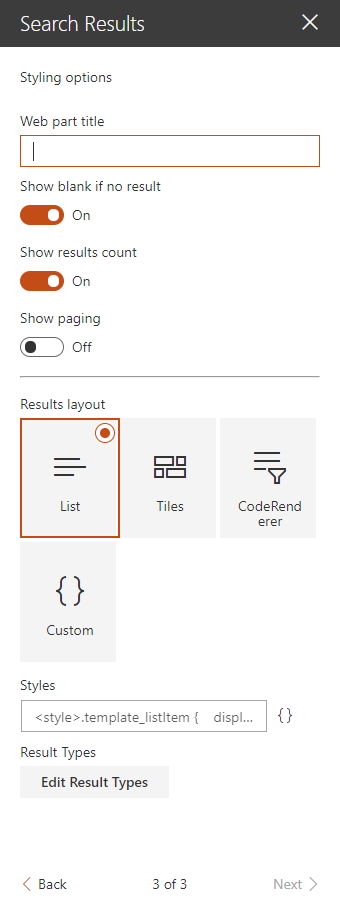
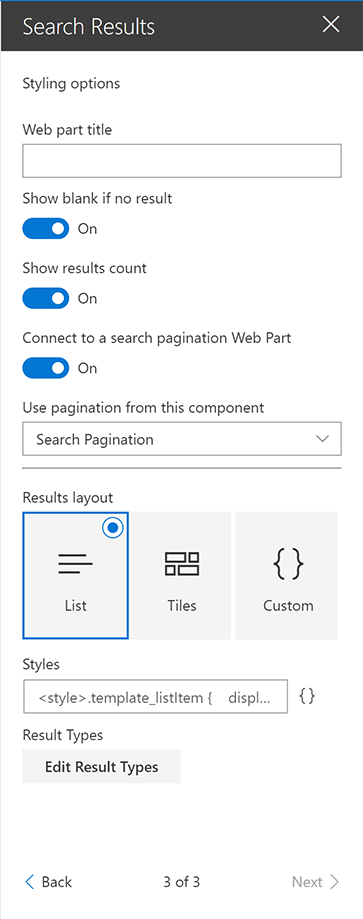
Readme: Updated versions and added information about Search Pagination Web Part

diff --git a/solutions/ModernSearch/react-search-refiners/README.md b/solutions/ModernSearch/react-search-refiners/README.md
@@ -1,6 +1,6 @@
 # SharePoint Framework modern search Web Parts
 
-![Version](https://img.shields.io/badge/version-3.0.0-green.svg)
+![Version](https://img.shields.io/badge/version-3.0.3-green.svg)
 
 ## Summary
 This solution allows you to build user friendly SharePoint search experiences using SPFx in the modern interface. The main features include:
@@ -12,7 +12,7 @@ This solution allows you to build user friendly SharePoint search experiences us
 - Customizable refiners supporting multilingual values for taxonomy based filters.
 - Sortable results (unique field).
 - Refiners Web Part.
-- Results paging.
+- Pagination Web Part.
 - SharePoint best bets support.
 - Search query enhancement with NLP tools (like Microsoft LUIS).
 
@@ -32,8 +32,9 @@ Component | Description
 ----- | ----- 
 Search Box Web Part | Allows users to enter free text/KQL search queries connected to a search results Web Part.
 Search Results Web Part | Performs static or dynamic search query with customizable parameters sorting and templating. An associated [blog post](http://thecollaborationcorner.com/2017/10/16/build-dynamic-sharepoint-search-experiences-with-refiners-and-paging-with-spfx-office-ui-fabric-and-pnp-js-library/) is available to give you more details about this Web Part implementation.
-Search Refiners | Allows users to configure refiners from a search results Web Part.
-Search Navigation | Allows users to configure refiners from a search results
+Search Refiners | Allows users to configure refiners for a search results Web Part.
+Search Pagination | Allows users to configure pagination for a search results Web Part.
+Search Navigation | Allows users to configure navigation for a search results Web Part
 
 **Back-end service(s)**
 
@@ -115,7 +116,7 @@ Query template | The search query template in KQL format. You can use search var
 Result Source Identifier | The GUID of a SharePoint result source.
 Initial sort order | The initial search results sort order. You can use mutliple properties here.
 Sortable fields | The search managed properties to use for sorting. Make sure these are sortable. With SharePoint Online, you have to reuse the default ones to do so (RefinableStringXX etc.). The order is the same as they will appear in the sort panel. You can also provide your own custom labels using the following format RefinableString01:"You custom filter label",RefinableString02:"You custom filter label",... If no sortable fields are provided, the 'Sort' button will not be visible.
-Connect to a search refiners Web Part | If enable, select the search refiners Web Part to use on the current page to get selected filters. It is a 2 ways connection so don't forget to connect the targeted search refiners to the sarch results Web Part as well. 
+Connect to a search refiners Web Part | If enable, select the search refiners Web Part to use on the current page to get selected filters. It is a 2 ways connection so don't forget to connect the targeted search refiners to the search results Web Part as well. 
 Enable Query Rules | Enable the query rules if applies. Turn this options  'on' to display your SharePoint Promoted results (links only).
 Selected properties | The search managed properties to retrieve. You can use these properties then in your Handlebar template with the syntax (`item.property_name`).
 Number of items to retrieve per page | Quite explicit. The paging behavior is done directly by the search API (See the *SearchDataProvider.ts* file), not by the code on post-render.
@@ -127,7 +128,7 @@ Setting | Description
 Web Part Title | Shows a title for this Web Part. Set blank if you don't want a title.
 Show blank if no result | Shows nothing if there is no result
 Show result count | Shows the result count and entered keywords  
-Show paging | Indicates whether or not the component should show the paging control at the bottom.
+Connect to a search pagination Web Part	 | If enable, select the search pagination Web Part to use on the current page to get selected page. It is a 2 ways connection so don't forget to connect the targeted search pagination to the search results Web Part as well. 
 Result Layouts options | Choose the template to use to display search results. Some layouts are defined by default (List and Tiles) but you can create your own either by clinkg on the **"Custom"** tile, or **"Edit template"** from an existing chosen template. In custom mode, you can set an external template. It has to be in the same SharePoint tenant. Behind the scenes, the Office UI Fabric core CSS components are used in a isolated way. Custom code templates will also automaticly be displayed here upon registration.
 Result types | Allows you to set a custom template at item level according to a specific condition (ex: FileType equals 'pdf').
 Handlebars Helpers | Load [handlebar helpers](https://github.com/helpers/handlebars-helpers) to use in your template. Disable this option will make Web Part loading faster if you don't need them.
@@ -285,6 +286,16 @@ Web Part Title | Shows a title for this Web Part. Set blank if you don't want a 
 Show blank if no result | Shows nothing if there is no filter
 Filters layout | Choose the template to use to display filters results.
 
+### Search Pagination
+
+<p align="center"><img width="300px" src="./images/search-pagination-property-pane.png"/><p>
+
+#### Pagination Options
+
+Setting | Description 
+-------|----
+Connect to search results Web Part | The search results Web Part to use on the current page to get page.
+
 ### Search Navigation Webpart
 This addition is a pivot-navigation link list that may be used to emulate the navigation in the out-of-the-box search center. You can use this webpart on several different pages and set up a searchbox and refiners webpart to handle different types of result. The webpart will automaticly detect if it is on the right page from the set of navigation nodes, and display it in the preferred color. 
 <img src="./images/NavNodesMain.gif">
@@ -335,6 +346,9 @@ Version|Date|Comments
 2.5.0.1 | Feb 11, 2019 | Downgrade @microsoft/sp-office-ui-fabric-core to v1.6.0 to fix theming
 2.5.1.0 | Mar 05, 2019 | Added Search Navigation webpart to the package.
 3.0.0.0 | Mar 10, 2019 | Created a dedicated refiners Web Part to connect with a search results like to the classic SharePoint search experience.
+3.0.1.0 | Mar 14, 2019 | Created a dedicated pagination Web Part to connect with a search results like to the classic SharePoint search experience. Improved Refienrs WP CSS.
+3.0.2.0 | Mar 14, 2019 | Fixed regressions with the paging experience
+3.0.3.0 | Mar 16, 2019 | Fixed display of custom renderers, in edit mode
 
 ## Important notice on upgrading the solution from pre v2.2.0.0
 **Due to code restucturing we have hit an edge case which impacts upgrades from previous versions. To solve the issue go to `https://<tenant>.sharepoint.com/sites/<appcatalog>/Lists/ComponentManifests` and remove the entries for SearchBox and Search Results, and then upload the .sppkg for the new release.**

diff --git a/solutions/ModernSearch/react-search-refiners-renderer/README.md b/solutions/ModernSearch/react-search-refiners-renderer/README.md
@@ -25,8 +25,9 @@ react-search-refiners-renderers | Tarald Gåsbakk - [@taraldga](http://www.twitt
 ## Version history
 Version|Date|Comments
 -------|----|--------
-1.0 | Jan 06, 2019 | Initial release
-1.0 | Mar 05, 2019 | Added Persona renderer
+1.0.0 | Jan 06, 2019 | Initial release
+1.0.0 | Mar 05, 2019 | Added Persona renderer
+1.0.1 | Mar 16, 2019 | Fixed hardcoded profile image url in Persona renderer. Updated some files to be in sync with Search solution
 
 ## Minimal Path to Awesome
 
